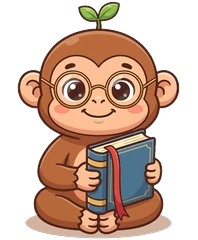
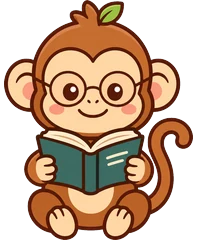
feat(art): Monki's redrawn pictures (monki-denetim-01, monki-son-rotuslar-01) under their own names
18 still pictures replaced in place, same file names and canvas sizes, so every use keeps them: the six CEFR Monkis
(cefr-monki-a1..c2), empty-garden, milestone-sprout, monki-scanner, onb-welcome, scene-journal, scene-library,
scene-search-empty, scene-sentences, weather-rain, weather-snow, weather-thunder (monki-denetim-01) and
monki-video-listen (monki-son-rotuslar-01, the newer version per its PAKET.json). The package PNGs had white paper:
it is cut away from the edges in (the drawing's enclosed light parts stay), the figure cropped and fitted to the
old canvas without stretching, alpha WebP. Animations are left as they are.

The two places that showed these without the dark-page rim get it: .inline-art (the listening Monki in the video
check) joins the --art-edge list, and the milestone picture puts --art-edge before its own shadow.

Claude-Session: https://claude.ai/code/session_012aJhhRejNUN1E3xNXy11q6

diff --git a/src/index.css b/src/index.css
@@ -2402,7 +2402,8 @@ button, a, label, summary, [role='button'] { -webkit-tap-highlight-color: transp
 }
 .milestone-trophy-img {
   max-width: 100%; max-height: 100%; object-fit: contain;
-  filter: drop-shadow(0 8px 18px rgba(0, 0, 0, 0.12));
+  /* The drawn sprout (Monki) keeps its edge on dark and calm pages, under its own soft shadow. */
+  filter: var(--art-edge) drop-shadow(0 8px 18px rgba(0, 0, 0, 0.12));
   animation: pop var(--dur) var(--ease-spring);
 }
 .milestone-emoji-badge {
@@ -4150,7 +4151,7 @@ body::before { content: ''; position: fixed; inset: 0 0 auto; height: 22rem; bac
    them a thin light rim there. Not the confetti frames, the welcome banner (its own light card) or a game's watermark. */
 :is(.streak-picture, .streak-flame-img, .account-art, .monki-face, .monki-pose, .chip-art, .empty-picture, .cat-emblem, .page-header-art, .sheet-react,
   .settings-pane-art, .settings-menu-art, .grown-monki, .emoji-monki, .drawn-medal, .og-pot, .ob-art, .lang-card-art,
-  .pos-art, .session-hello img, .result-art, .game-art, .wl-cover, .sticker, .quest-art, .status-picture, .source-art, .day-scene, .avatar img, .chat-scene img, .boss-face, .mission-art, .tile-art, .garden-pot, .nudge-art, .friends-art, .lesson-check-art, .flash-done-art, .auth-art, .stat-art-img, .daily-news-art, .goal-monki-art, .lp-art, .slips-cleared-art, .review-empty-art, .scanner-art, .video-listen-art) {
+  .pos-art, .session-hello img, .result-art, .game-art, .wl-cover, .sticker, .quest-art, .status-picture, .source-art, .day-scene, .avatar img, .chat-scene img, .boss-face, .mission-art, .tile-art, .garden-pot, .nudge-art, .friends-art, .lesson-check-art, .flash-done-art, .auth-art, .stat-art-img, .daily-news-art, .goal-monki-art, .lp-art, .slips-cleared-art, .review-empty-art, .scanner-art, .video-listen-art, .inline-art) {
   filter: var(--art-edge);
 }
 
